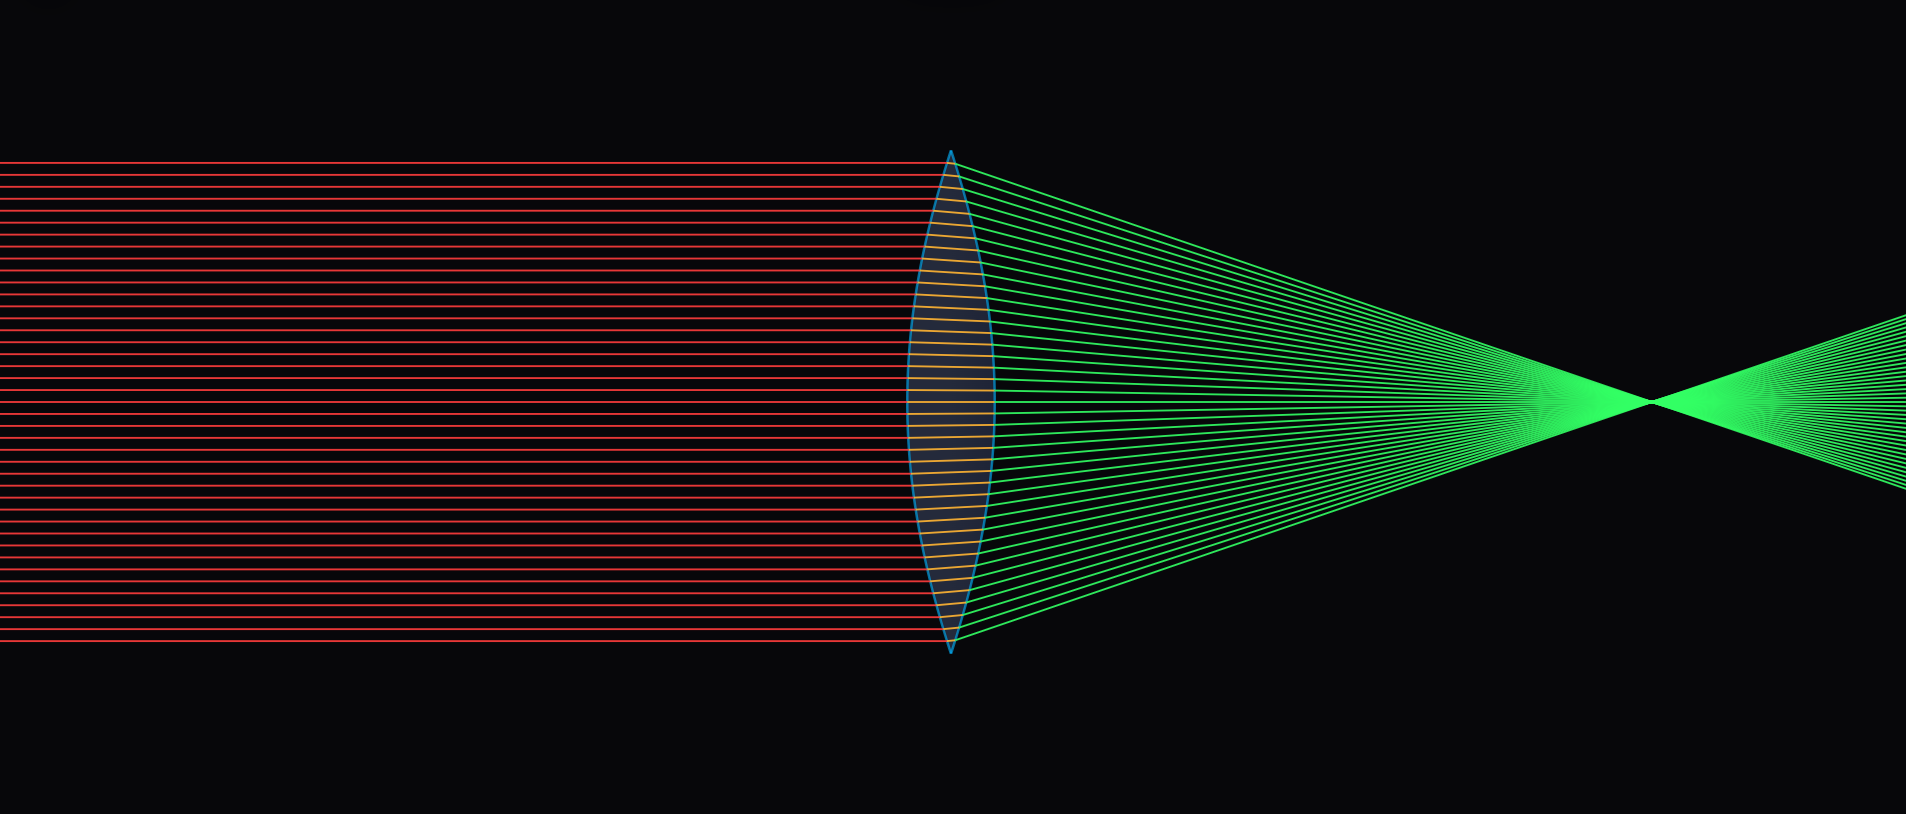
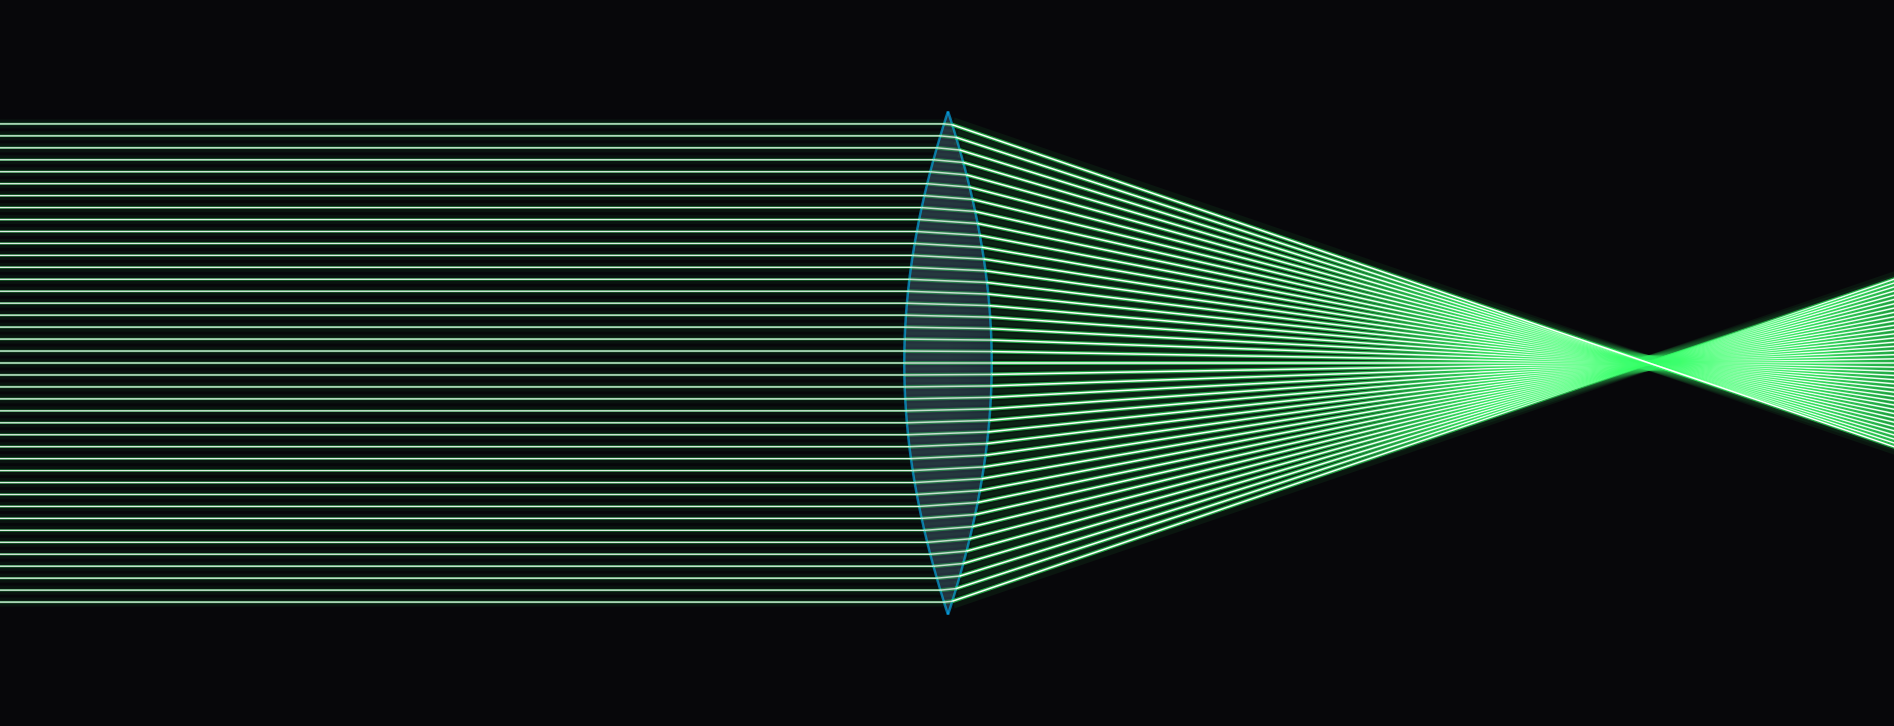
update images

Changed region(s): [[0.0, 0.1515, 1.0, 0.8485]]

diff --git a/src/lens/LensControls.tsx b/src/lens/LensControls.tsx
@@ -31,7 +31,7 @@ function LensControls({ params, setParams }) {
       keepFailed: (v) => setParams((p) => ({ ...p, keepFailed: v })),
       useReflections: (v) => setParams((p) => ({ ...p, useReflections: v })),
     }),
-    [setParams]
+    [setParams],
   );
 
   const toggleUseField = (v) => {
@@ -50,7 +50,14 @@ function LensControls({ params, setParams }) {
     } catch (e) {
       return e as ExprError;
     }
-  }, [params.useField, params.customEq, params.z0, params.a2, params.a4, params.a6]);
+  }, [
+    params.useField,
+    params.customEq,
+    params.z0,
+    params.a2,
+    params.a4,
+    params.a6,
+  ]);
 
   return (
     <>
@@ -61,41 +68,50 @@ function LensControls({ params, setParams }) {
           checked={params.useField}
           onChange={toggleUseField}
         />
-          <ToggleSwitch
-            name="useReflections"
-            label={t("lens.useReflections")}
-            checked={!!params.useReflections}
-            onChange={handlers.useReflections}
-          />
-        </div>
+        <ToggleSwitch
+          name="useReflections"
+          label={t("lens.useReflections")}
+          checked={!!params.useReflections}
+          onChange={handlers.useReflections}
+        />
 
         <div className="section">
-          <RangeSlider
-            name="n"
-            label={t("lens.refraction")}
-            min={1} max={10} step={0.01} value={params.n}
-            onChange={handlers.n}
+          <ToggleSwitch
+            name="keepFailed"
+            label={t("lens.keepFailed")}
+            checked={params.keepFailed}
+            onChange={handlers.keepFailed}
           />
+        </div>
+      </div>
+
+      <div className="section">
+        <RangeSlider
+          name="n"
+          label={t("lens.refraction")}
+          min={1}
+          max={10}
+          step={0.01}
+          value={params.n}
+          onChange={handlers.n}
+        />
         <RangeSlider
           name="angle"
           label={t("lens.beamAngle")}
-          min={-90} max={90} step={0.1} value={params.angle}
+          min={-90}
+          max={90}
+          step={0.1}
+          value={params.angle}
           onChange={handlers.angle}
         />
         <RangeSlider
           name="rayCount"
           label={t("lens.rayCount")}
-          min={3} max={201} step={1} value={params.rayCount}
+          min={3}
+          max={201}
+          step={1}
+          value={params.rayCount}
           onChange={handlers.rayCount}
-        />
-      </div>
-
-      <div className="section">
-        <ToggleSwitch
-          name="keepFailed"
-          label={t("lens.keepFailed")}
-          checked={params.keepFailed}
-          onChange={handlers.keepFailed}
         />
       </div>
 
@@ -106,28 +122,40 @@ function LensControls({ params, setParams }) {
             <RangeSlider
               name="z0"
               label="z₀"
-              min={-20} max={20} step={0.001} value={params.z0}
+              min={-20}
+              max={20}
+              step={0.001}
+              value={params.z0}
               onChange={handlers.z0}
               format={formatZ0}
             />
             <RangeSlider
               name="a2"
               label="a₂"
-              min={-0.1} max={0.1} step={1e-5} value={params.a2}
+              min={-0.1}
+              max={0.1}
+              step={1e-5}
+              value={params.a2}
               onChange={handlers.a2}
               format={formatA2}
             />
             <RangeSlider
               name="a4"
               label="a₄"
-              min={-0.001} max={0.001} step={1e-7} value={params.a4}
+              min={-0.001}
+              max={0.001}
+              step={1e-7}
+              value={params.a4}
               onChange={handlers.a4}
               format={formatA4}
             />
             <RangeSlider
               name="a6"
               label="a₆"
-              min={-1e-5} max={1e-5} step={1e-10} value={params.a6}
+              min={-1e-5}
+              max={1e-5}
+              step={1e-10}
+              value={params.a6}
               onChange={handlers.a6}
               format={formatA6}
             />
@@ -137,8 +165,21 @@ function LensControls({ params, setParams }) {
 
       {params.useField && (
         <div className="section">
-          <label style={{ flexDirection: "column", alignItems: "flex-start", gap: 2, display: "flex" }}>
-            <span style={{ fontSize: 12, fontWeight: 500, color: "var(--text-sec)" }}>
+          <label
+            style={{
+              flexDirection: "column",
+              alignItems: "flex-start",
+              gap: 2,
+              display: "flex",
+            }}
+          >
+            <span
+              style={{
+                fontSize: 12,
+                fontWeight: 500,
+                color: "var(--text-sec)",
+              }}
+            >
               z(r)
             </span>
             <input
@@ -162,7 +203,13 @@ function LensControls({ params, setParams }) {
               }}
             />
             {eqError && (
-              <span style={{ fontSize: 10.5, color: "var(--danger)", lineHeight: 1.3 }}>
+              <span
+                style={{
+                  fontSize: 10.5,
+                  color: "var(--danger)",
+                  lineHeight: 1.3,
+                }}
+              >
                 {t("lens.eqError")}: {eqError.message}
               </span>
             )}
